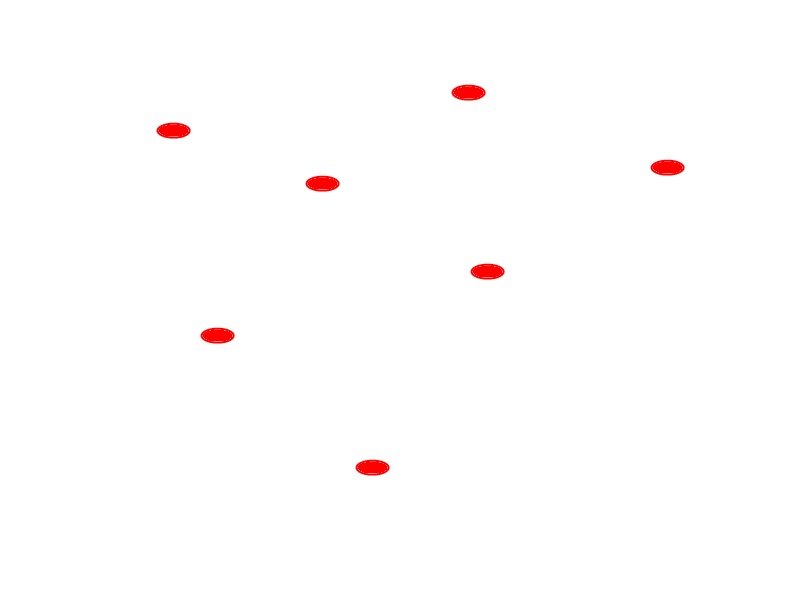
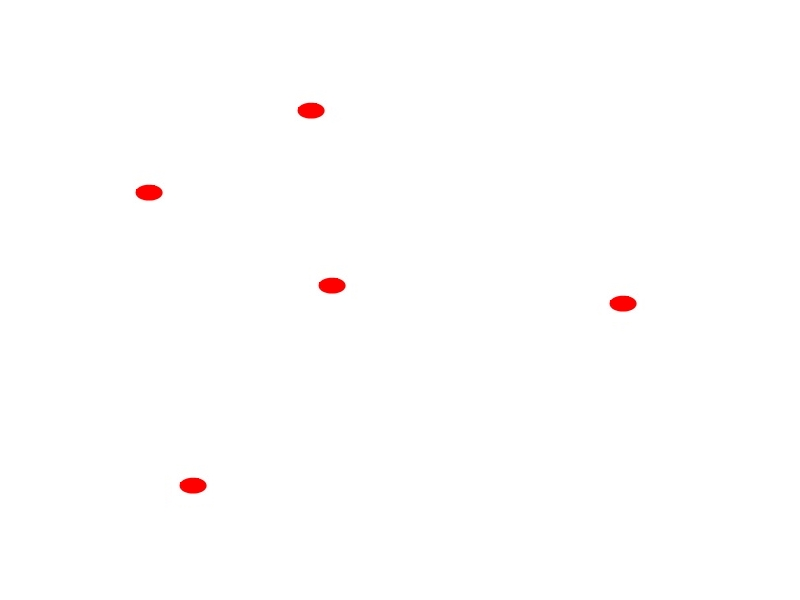
Added more red and reduced compression test image

diff --git a/DroneStroker.CLI/DroneStriker.cpp b/DroneStroker.CLI/DroneStriker.cpp
@@ -23,7 +23,7 @@ DroneStriker::~DroneStriker()
 
 void DroneStriker::Annihilate(Mat image, Mat &result, double orientation, int magnitude)
 {
-	image.copyTo(result);
+	inRange(image, Scalar(0, 0, 0), Scalar(0, 0, 255), result);
 }
 
 void DroneStriker::PaintTarget(cv::Mat &result, int x, int y)
